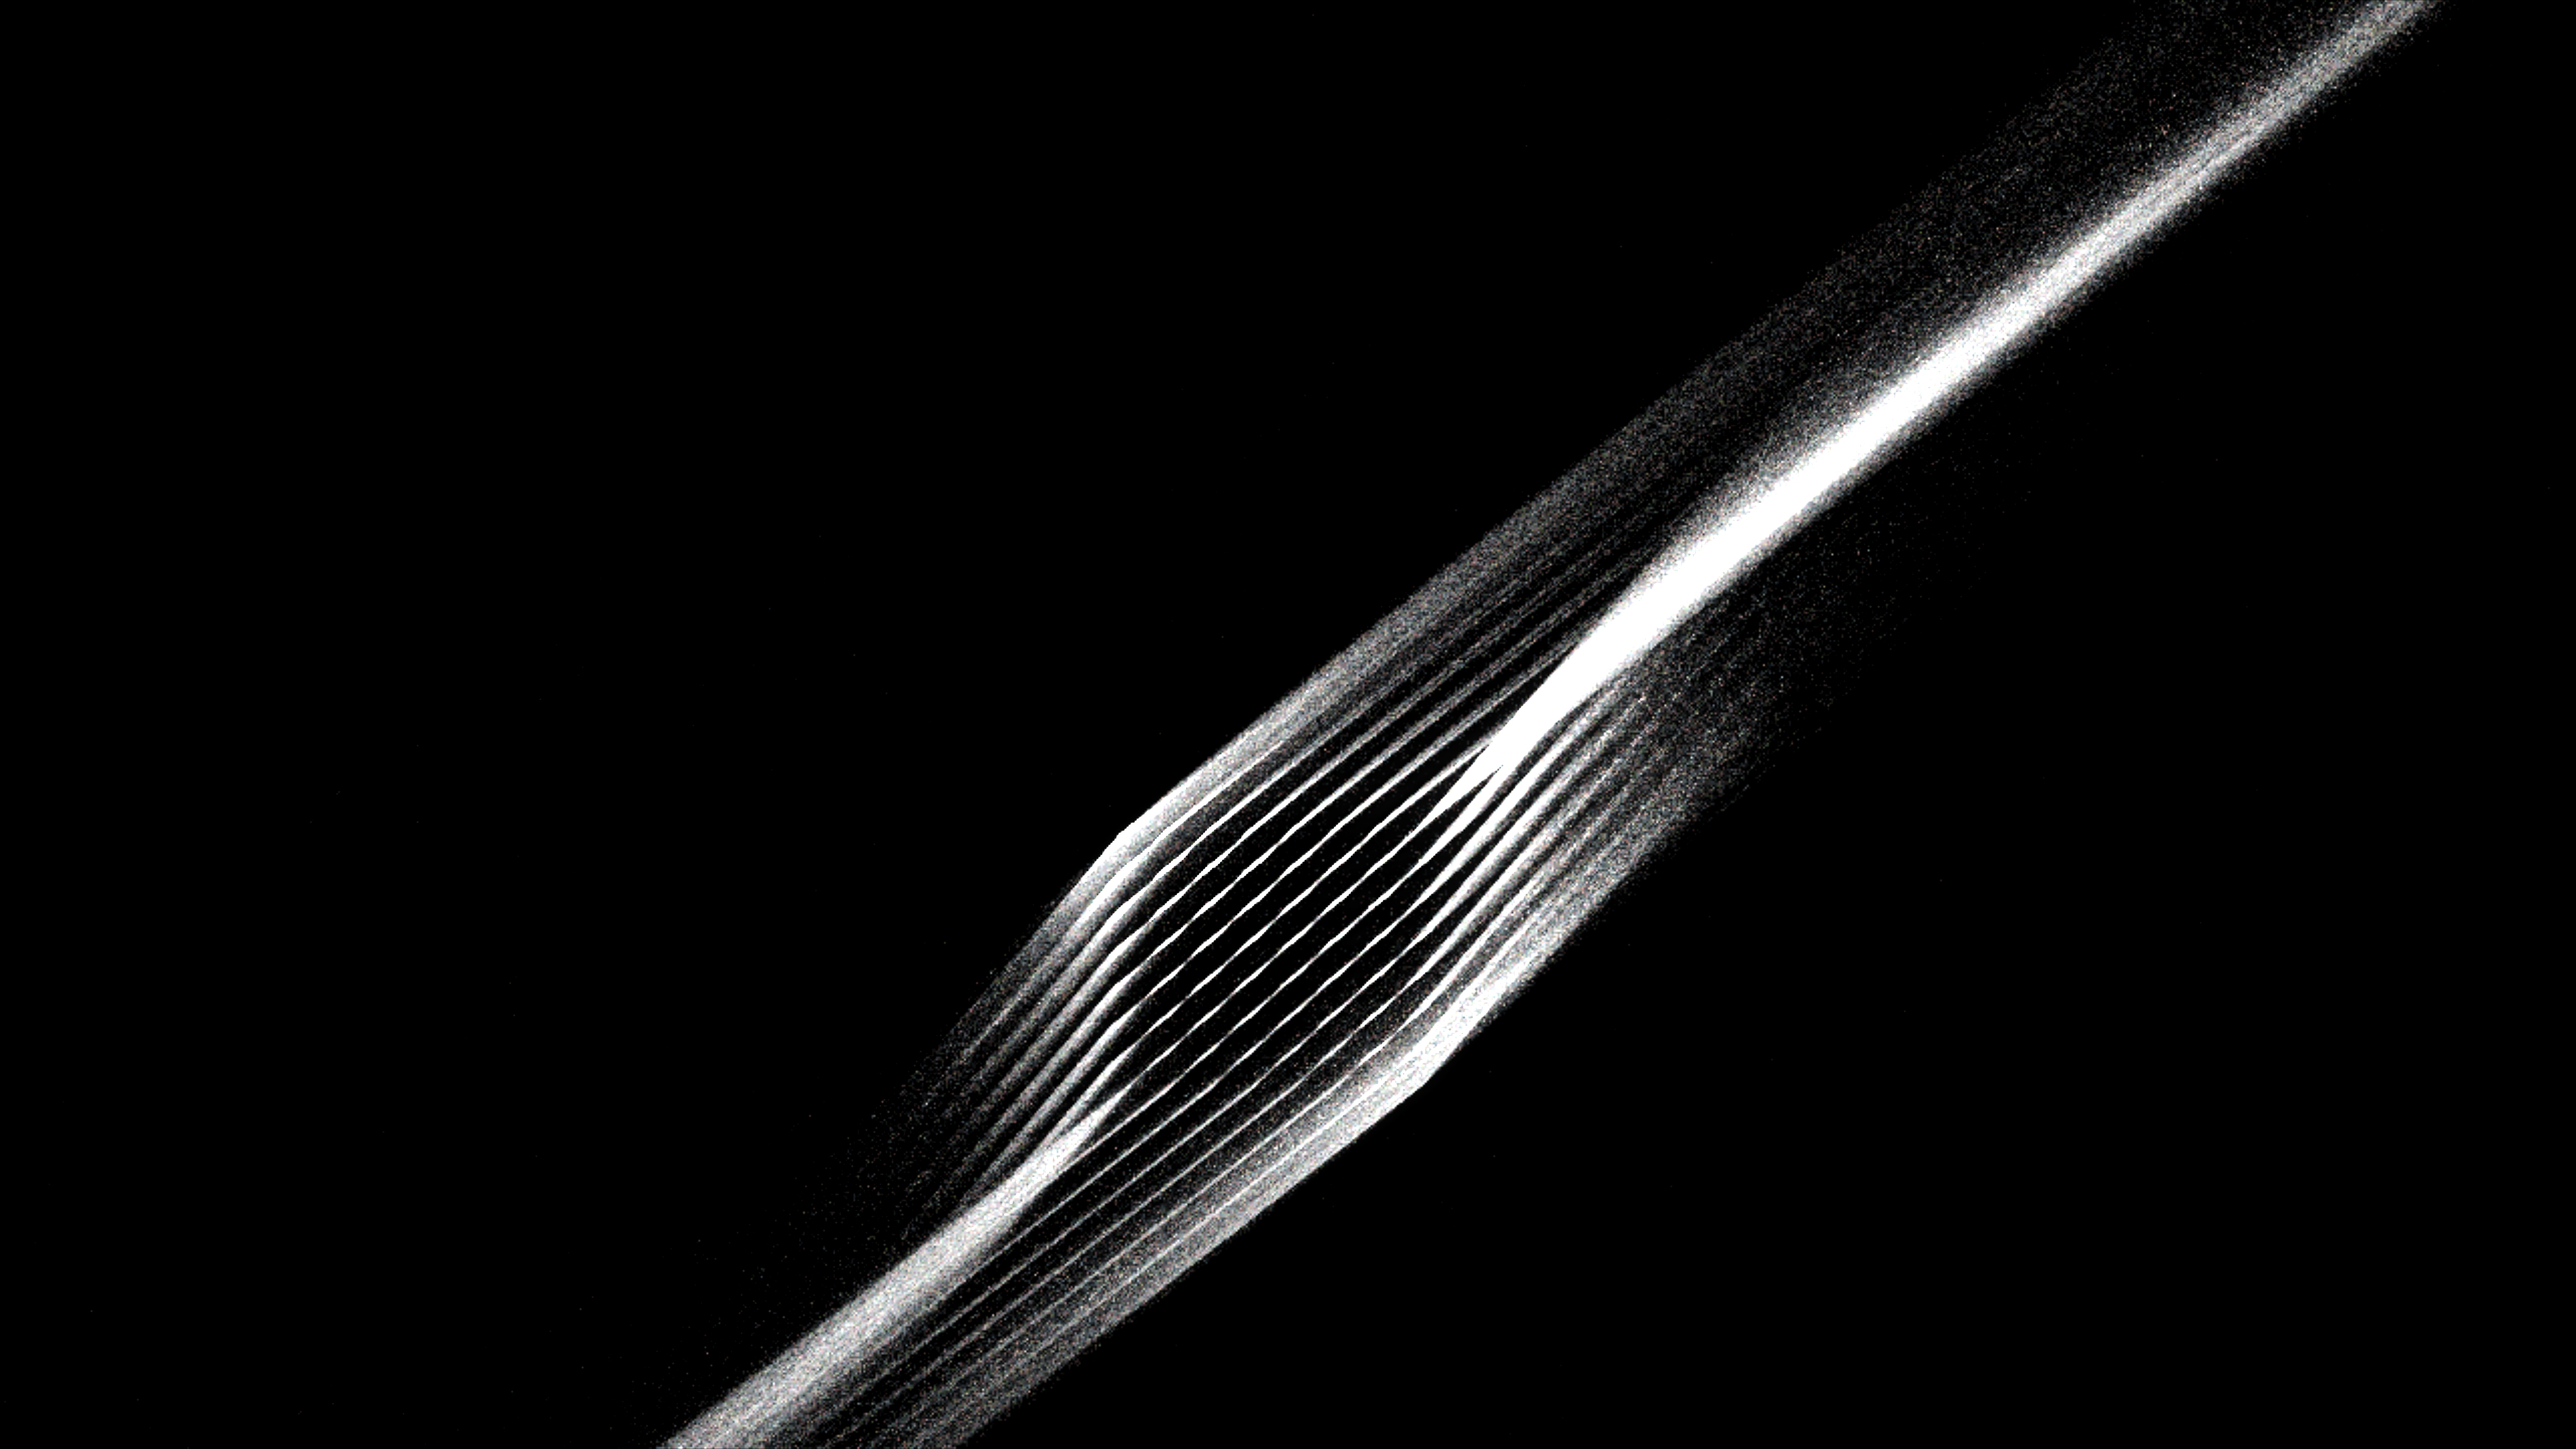
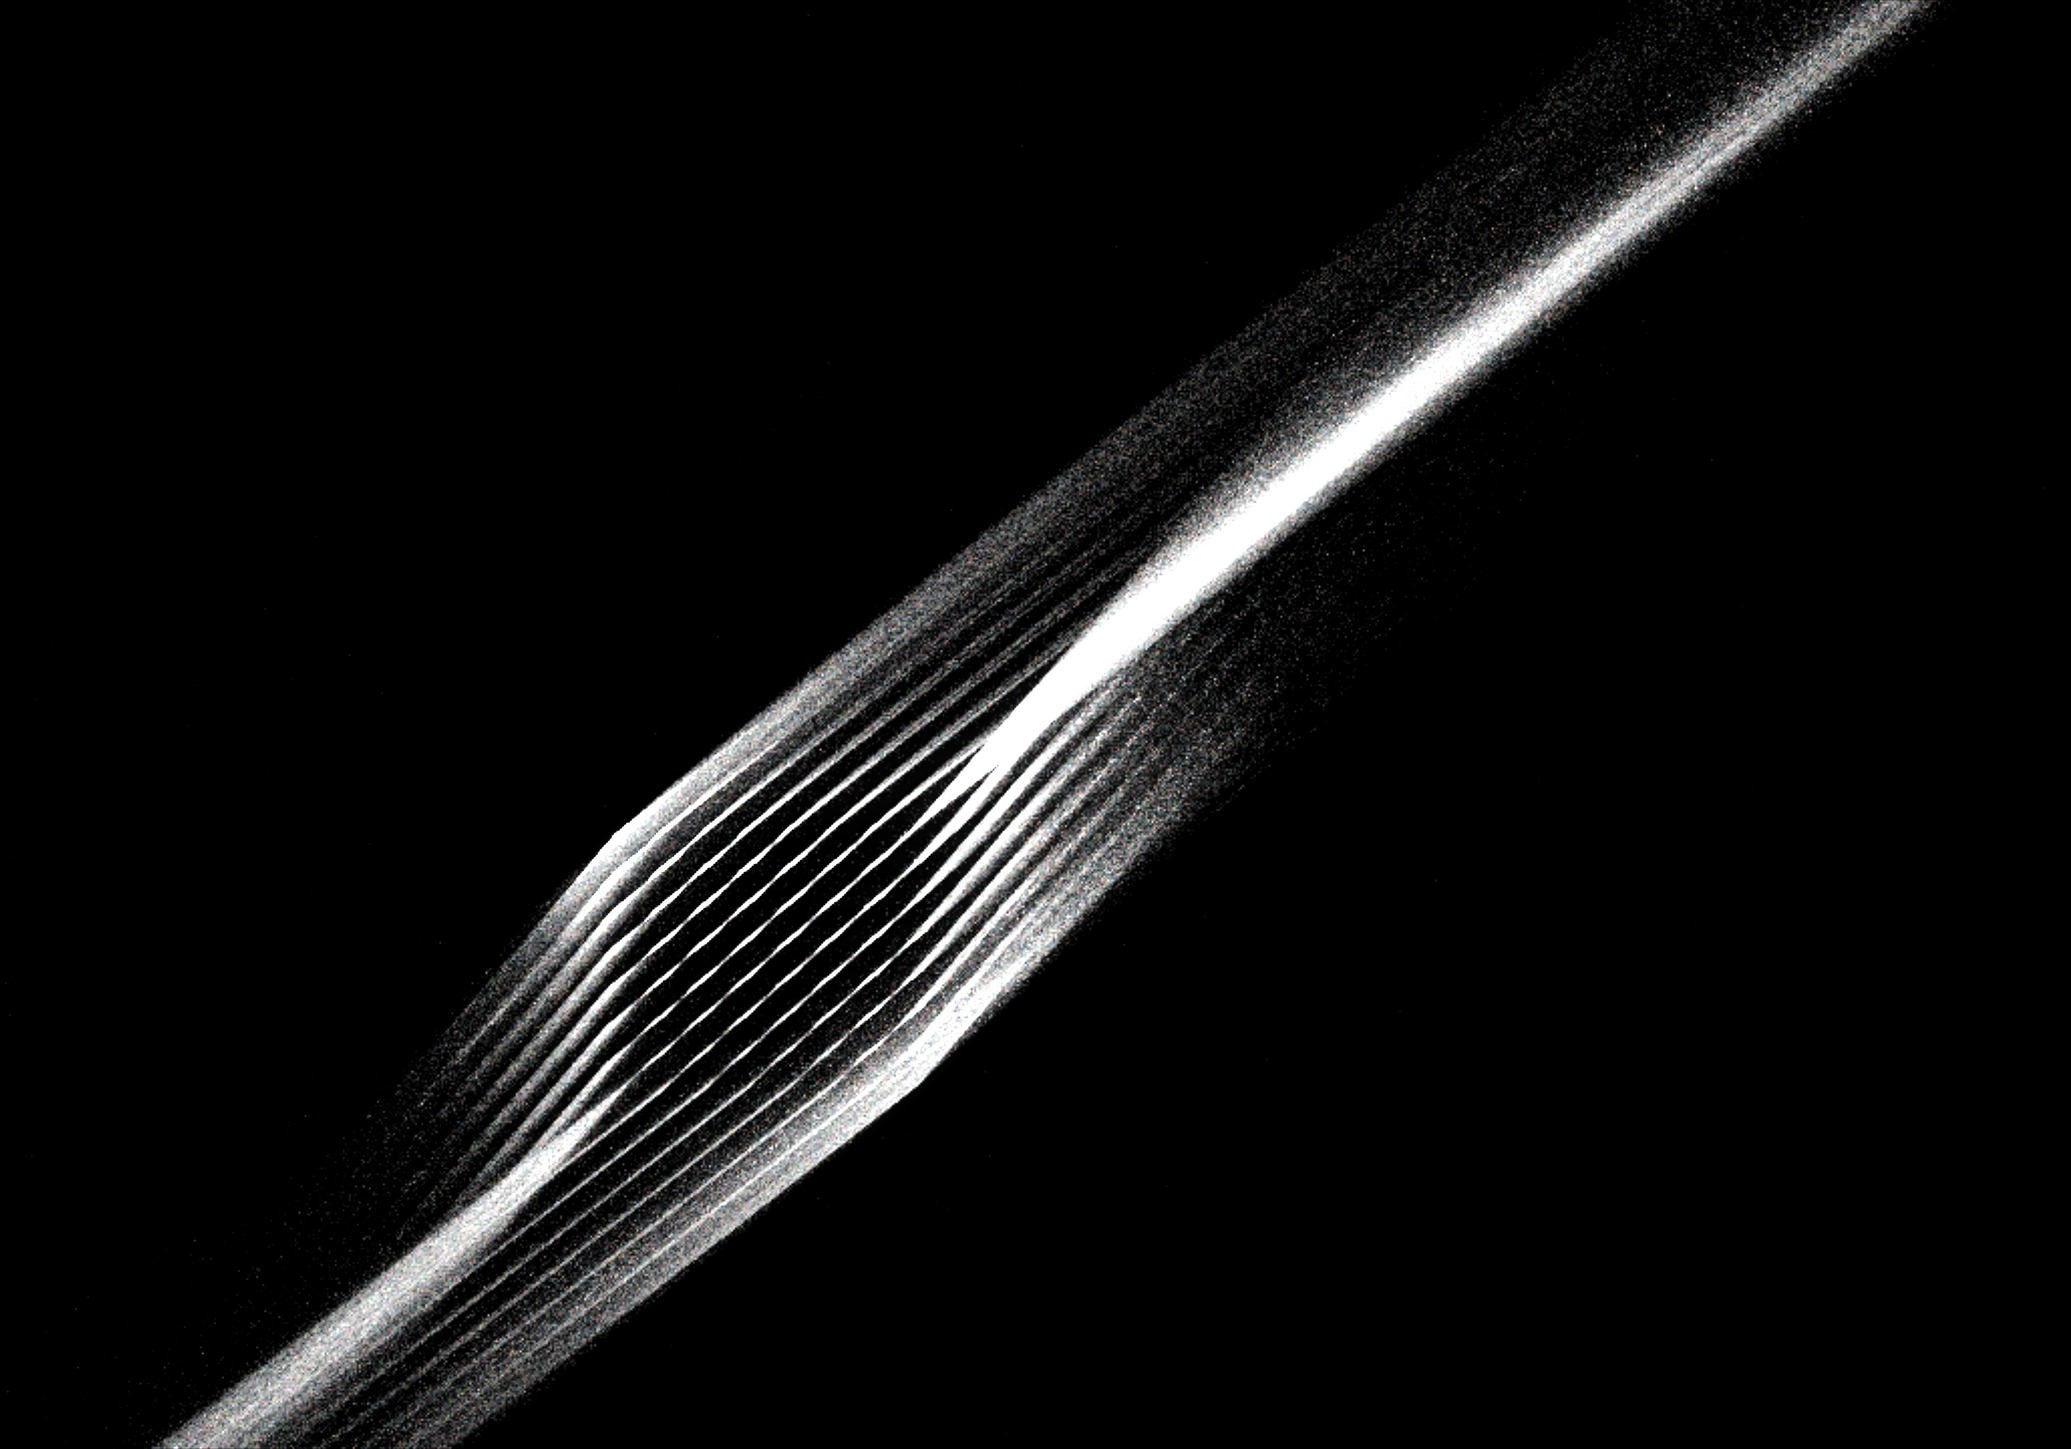
move background to right by modifying image and aligning left

Changed region(s): [[0.0622, 0.0, 0.9637, 1.0]]

diff --git a/index.html b/index.html
@@ -20,7 +20,7 @@
             .background {
                 background-image: url('background_2.jpg');
                 background-size: cover;
-                background-position: center;
+                background-position: left center;
                 height: 100%;
                 display: flex;
                 justify-content: center;
